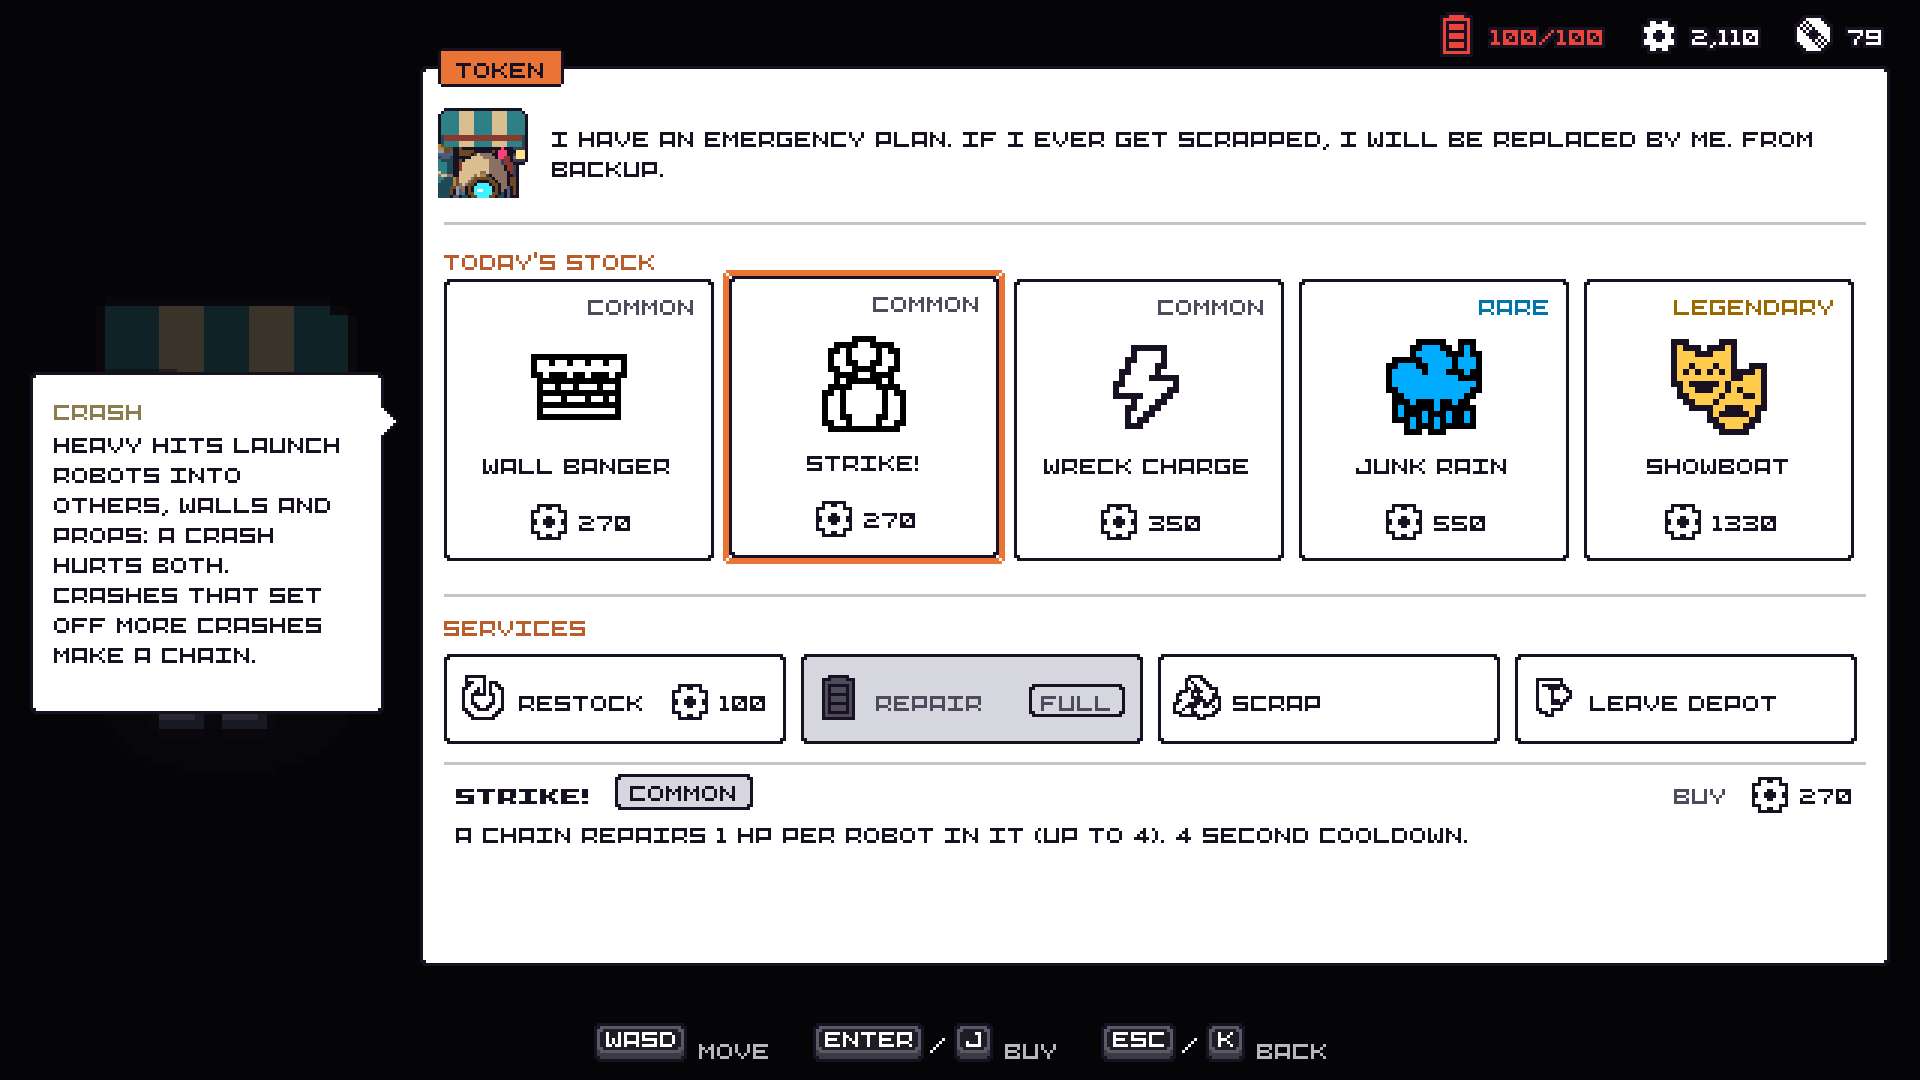
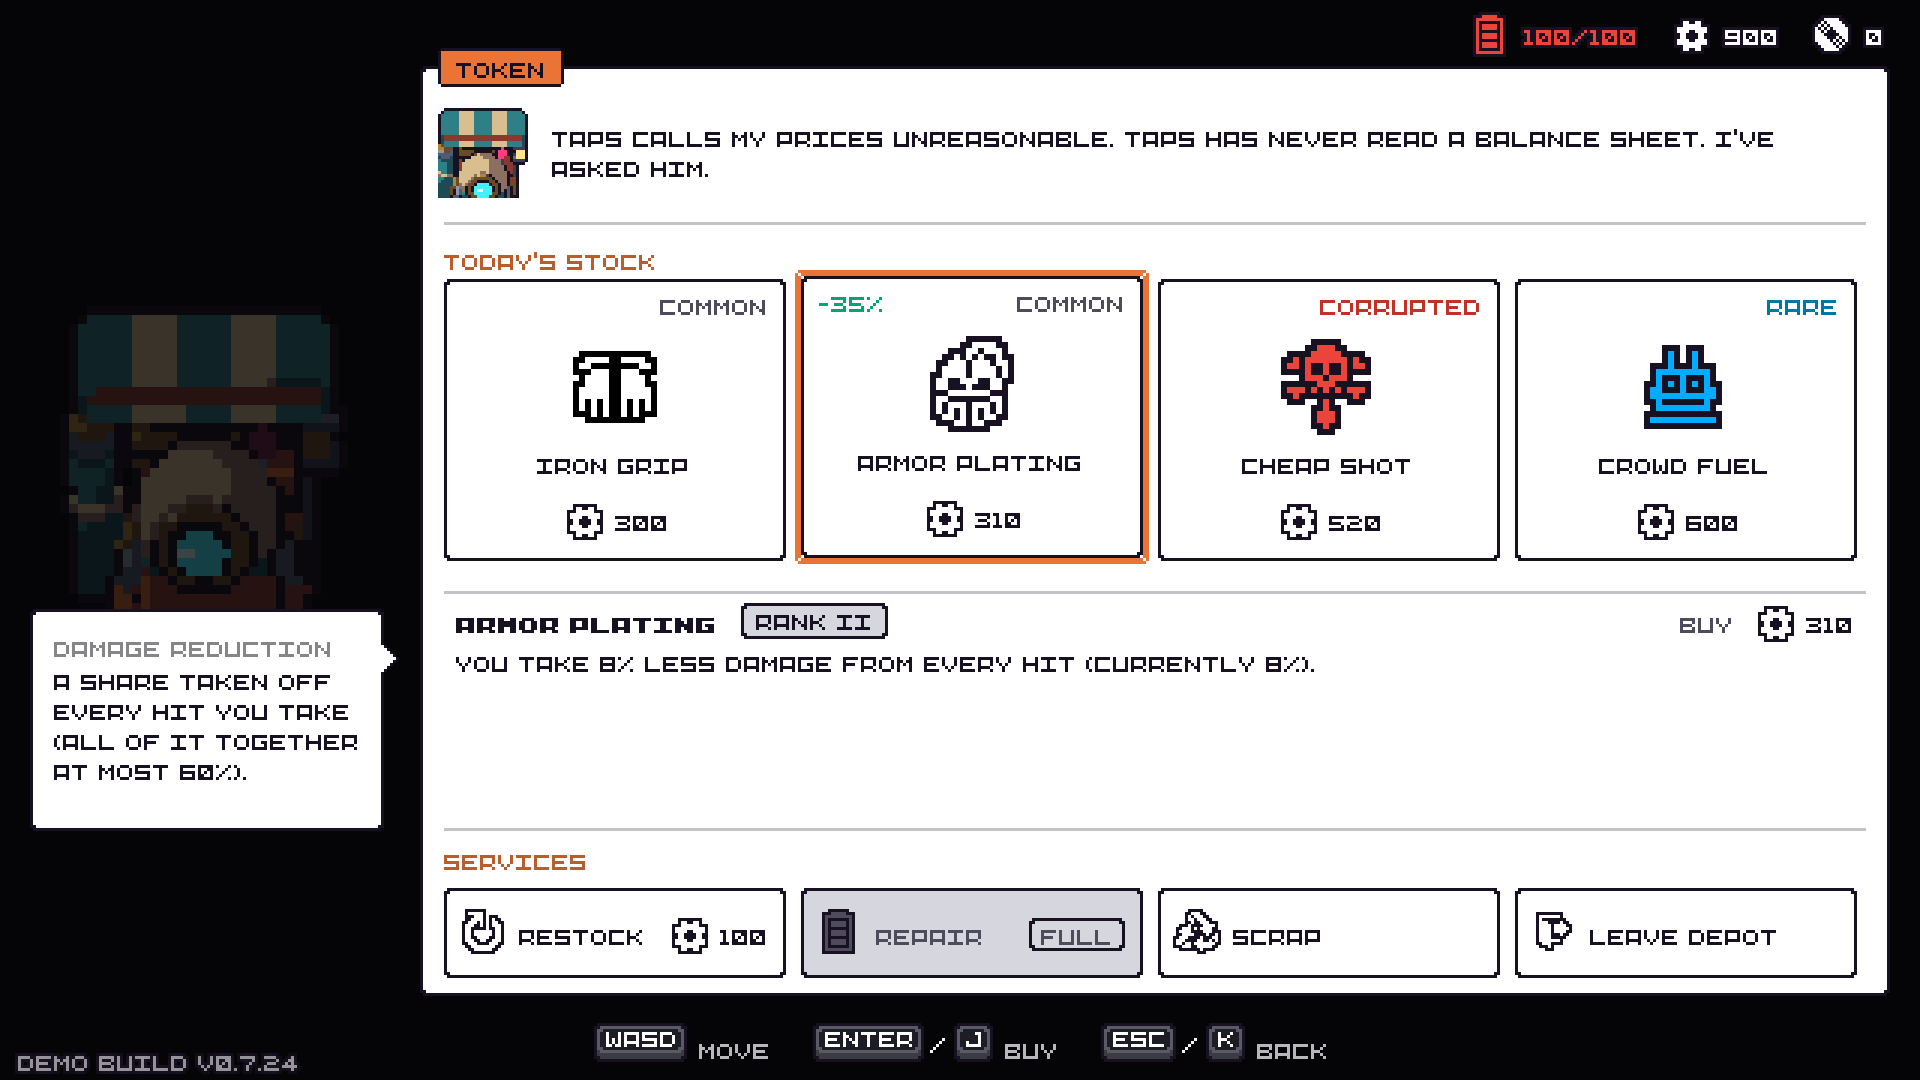
Gearbreak: new supply depot screenshot

diff --git a/gearbreak.html b/gearbreak.html
@@ -15,7 +15,7 @@
   <link rel="preconnect" href="https://fonts.googleapis.com">
   <link rel="preconnect" href="https://fonts.gstatic.com" crossorigin>
   <link href="https://fonts.googleapis.com/css2?family=Rubik:wght@400;500;700;900&display=swap" rel="stylesheet">
-  <link rel="stylesheet" href="style.css?v=11">
+  <link rel="stylesheet" href="style.css?v=12">
 </head>
 <body class="gb">
   <svg width="0" height="0" style="position:absolute" aria-hidden="true"><symbol id="gear" viewBox="0 0 100 100"><path d="M43 4h14l2 12a35 35 0 0 1 9 4l10-7 10 10-7 10a35 35 0 0 1 4 9l12 2v14l-12 2a35 35 0 0 1-4 9l7 10-10 10-10-7a35 35 0 0 1-9 4l-2 12H43l-2-12a35 35 0 0 1-9-4l-10 7-10-10 7-10a35 35 0 0 1-4-9L3 57V43l12-2a35 35 0 0 1 4-9l-7-10 10-10 10 7a35 35 0 0 1 9-4z M50 33a17 17 0 1 0 0.01 0z" fill-rule="evenodd"/></symbol></svg>
@@ -105,7 +105,7 @@
         <li>
           <figure>
             <button class="shot" type="button" data-shot="3">
-              <img src="assets/gearbreak/depot.png" width="1920" height="1080" loading="lazy" alt="Token's supply depot shop with five parts for sale and services to restock, repair and scrap." data-i18n-alt="gb.alt3">
+              <img src="assets/gearbreak/depot.png" width="1920" height="1080" loading="lazy" alt="Token's supply depot shop with four parts for sale and services to restock, repair and scrap." data-i18n-alt="gb.alt3">
             </button>
             <figcaption><strong data-i18n="gb.c3t">Supply depots</strong> <span data-i18n="gb.c3">Spend your gears on new parts, repairs and restocks.</span></figcaption>
           </figure>

diff --git a/i18n.js b/i18n.js
@@ -30,7 +30,7 @@
     'gb.alt0': 'Um agarrão pelas costas arremessa um robô contra outros robôs e caixas, causando uma reação em cadeia.',
     'gb.alt1': 'Tranco lança um grupo de robôs numa sala isométrica enquanto o medidor de combo conta os golpes.',
     'gb.alt2': 'Wrench oferece quatro peças para escolher, entre elas Hang Time, Iron Grip e Bank Shot.',
-    'gb.alt3': 'A loja de Token no depósito de suprimentos, com cinco peças à venda e serviços para repor, reparar e desmontar.',
+    'gb.alt3': 'A loja de Token no depósito de suprimentos, com quatro peças à venda e serviços para repor, reparar e desmontar.',
     'gb.alt4': 'Taps oferece três apostas: uma aposta pequena, apostar metade das suas engrenagens ou um tiro no escuro.',
     'gb.featTitle': 'Destaques',
     'gb.ft1': 'Combate de brigão baseado em lançamentos, malabarismos, esmagadas na parede e reações em cadeia.',

diff --git a/index.html b/index.html
@@ -15,7 +15,7 @@
   <link rel="preconnect" href="https://fonts.googleapis.com">
   <link rel="preconnect" href="https://fonts.gstatic.com" crossorigin>
   <link href="https://fonts.googleapis.com/css2?family=Rubik:wght@400;500;700;900&display=swap" rel="stylesheet">
-  <link rel="stylesheet" href="style.css?v=11">
+  <link rel="stylesheet" href="style.css?v=12">
 </head>
 <body>
   <svg width="0" height="0" style="position:absolute" aria-hidden="true"><symbol id="gear" viewBox="0 0 100 100"><path d="M43 4h14l2 12a35 35 0 0 1 9 4l10-7 10 10-7 10a35 35 0 0 1 4 9l12 2v14l-12 2a35 35 0 0 1-4 9l7 10-10 10-10-7a35 35 0 0 1-9 4l-2 12H43l-2-12a35 35 0 0 1-9-4l-10 7-10-10 7-10a35 35 0 0 1-4-9L3 57V43l12-2a35 35 0 0 1 4-9l-7-10 10-10 10 7a35 35 0 0 1 9-4z M50 33a17 17 0 1 0 0.01 0z" fill-rule="evenodd"/></symbol></svg>
